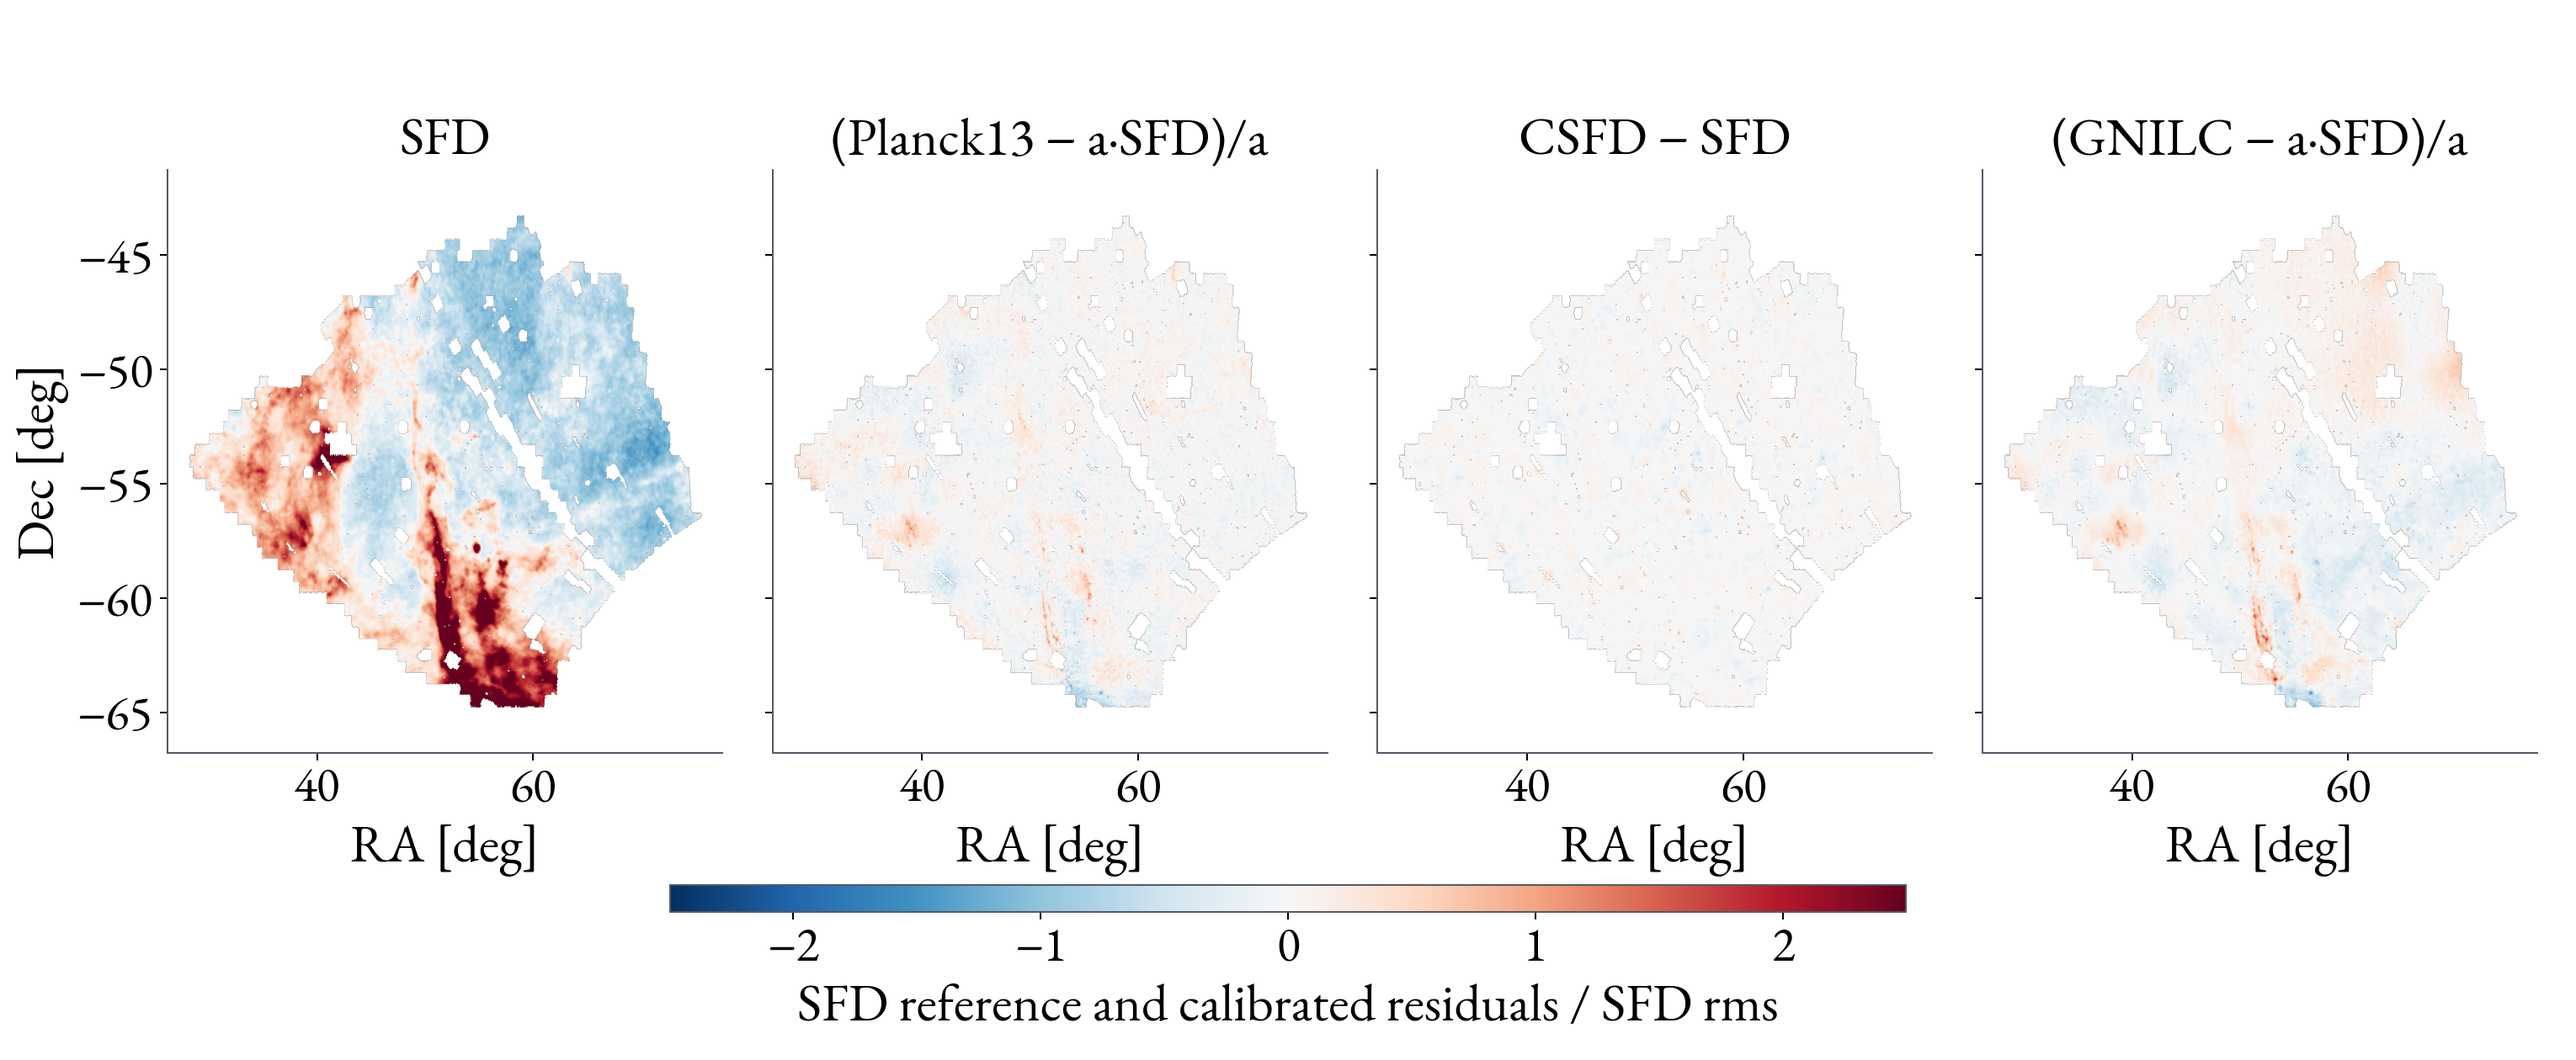
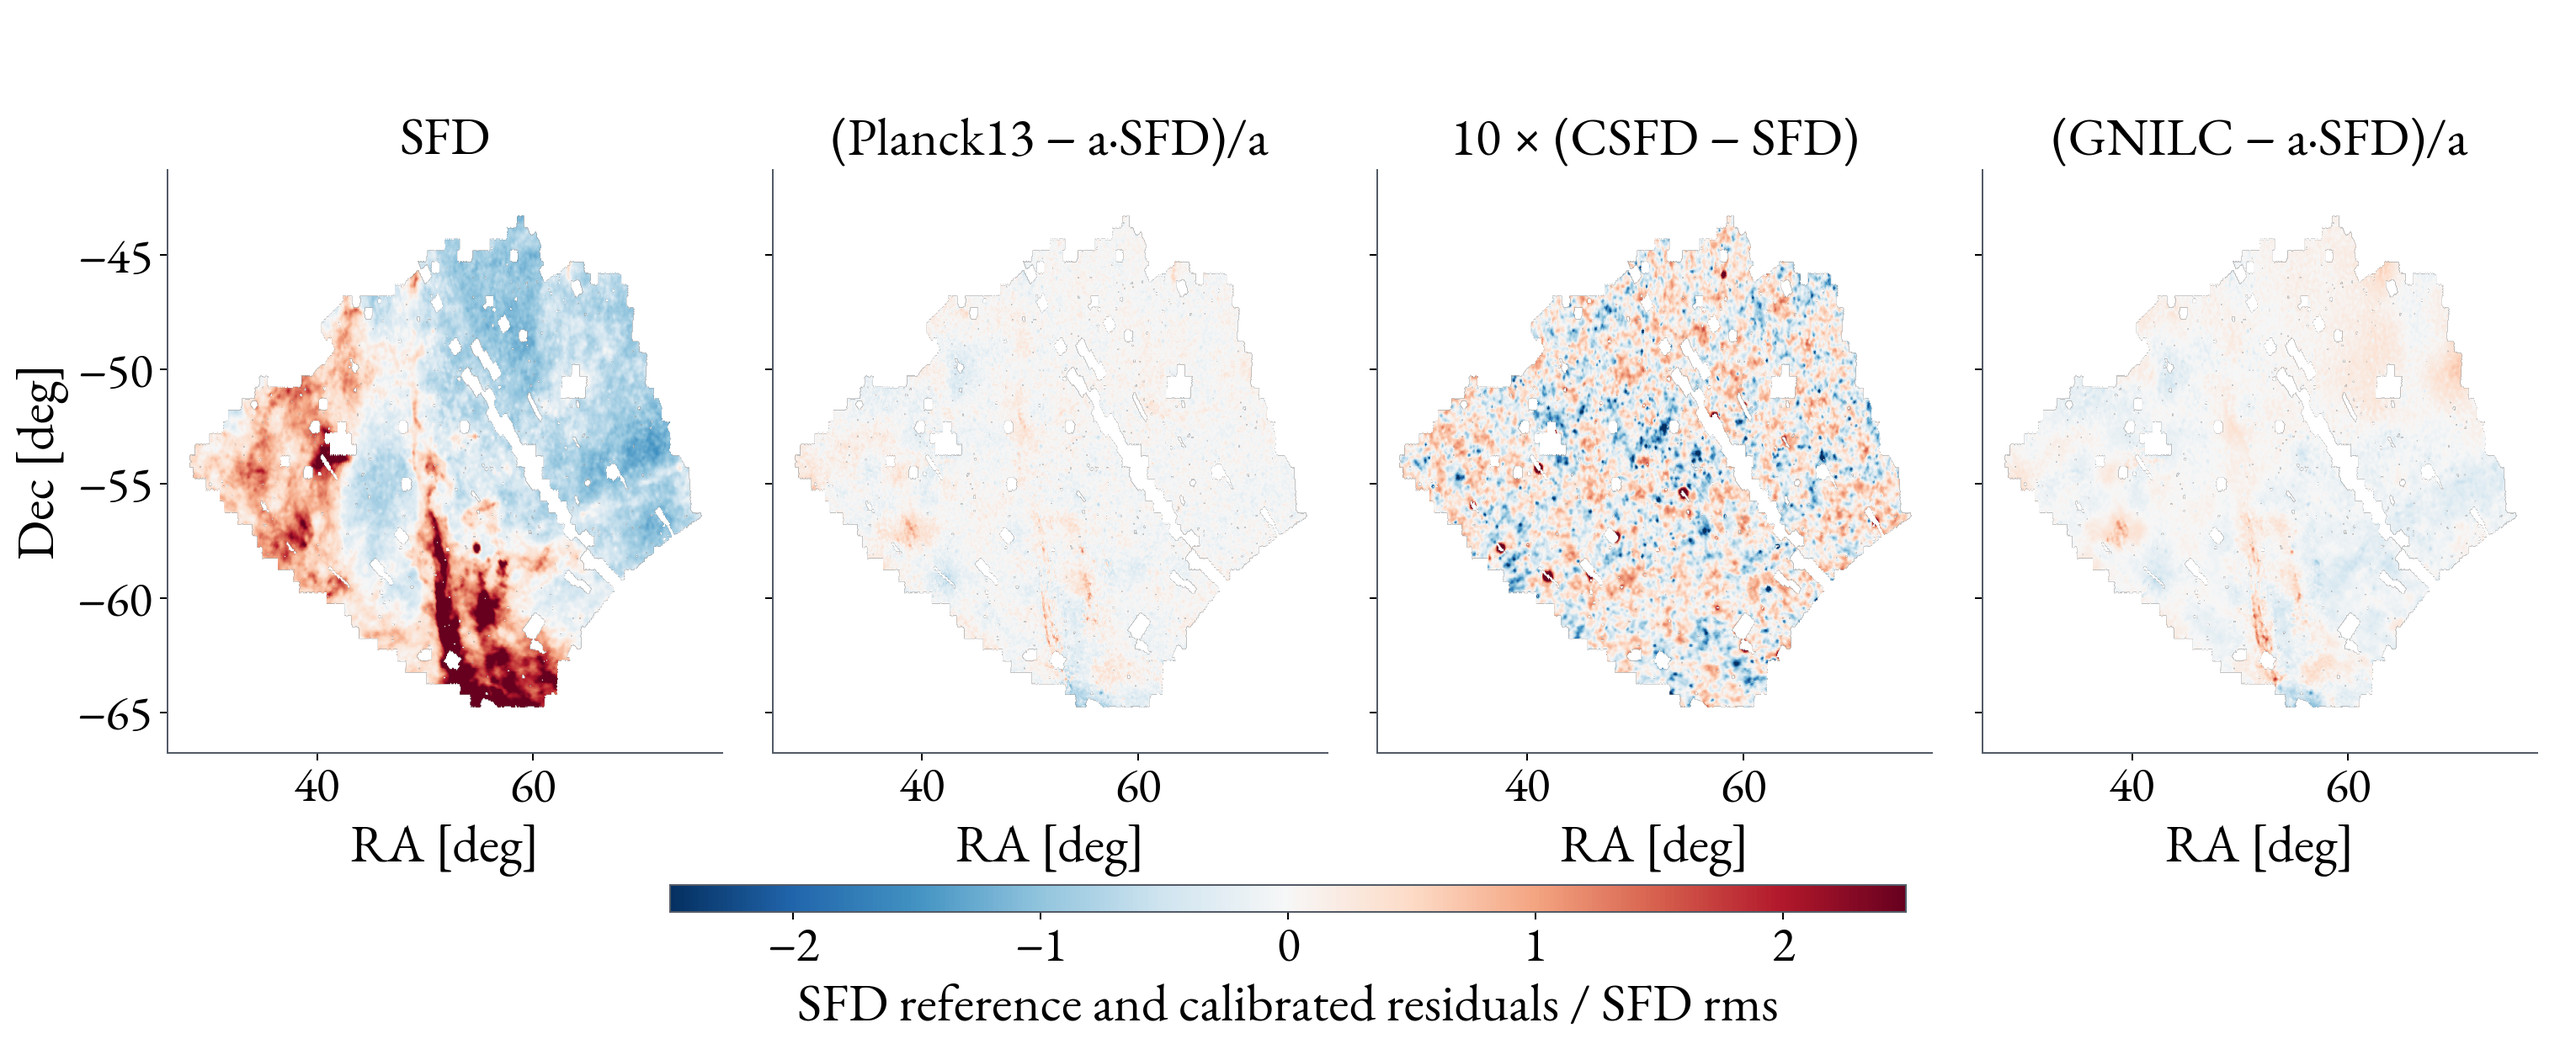
Expose CSFD dust residual structure and include every rho error bar

Changed region(s): [[0.5278, 0.2167, 0.7451, 0.681], [0.5588, 0.0929, 0.7141, 0.1548]]

diff --git a/2610_GC8_Systematics/slides/dust-maps.html b/2610_GC8_Systematics/slides/dust-maps.html
@@ -1,9 +1,9 @@
 <section data-layout="figure">
 <h2>Dust maps share structure, but differ in LSS</h2>
-<figure><img src="images/gc8r4_dust_residuals.png" alt="SFD reference plus calibrated Planck13, CSFD and GNILC residuals, all in SFD rms units on a common symmetric scale."><img class="fragment" src="images/gc8r4_dust_rho.png" alt="Cycle-2 thirteen-tracer GLS mean rho for VMPZ, SFD, CSFD and GNILC, with full-block Gaussian errors."><span class="source">Cycle 2 · exploratory · Gaussian · arXiv:2601.14484, 2411.12020, 1808.03294</span></figure>
+<figure><img src="images/gc8r4_dust_residuals.png" alt="SFD reference plus calibrated Planck13, CSFD and GNILC residuals, in SFD rms units; the CSFD residual alone is displayed at ten times the gain."><img class="fragment" src="images/gc8r4_dust_rho.png" alt="Cycle-2 thirteen-tracer GLS mean rho for VMPZ, SFD, CSFD and GNILC, with full-block Gaussian errors."><span class="source">Cycle 2 · exploratory · Gaussian · arXiv:2601.14484, 2411.12020, 1808.03294</span></figure>
 <aside class="notes"><p>This comparison exists only for Cycle 2; no Cycle-1 dust-map comparison is implied.
 The means and errors use full-range GLS compression, visibility-corrected density, LensMC E and SPT kappa, with the same fixed fiducial-signal normalization as slide 3.
-The first frame shows an SFD reference plus residuals on the same equatorial grid and union GC/WL support. Maps are mean-subtracted. For Planck13 and GNILC, a is an unweighted least-squares scale with intercept on the support; (T − a SFD)/a converts the residual back to SFD units. CSFD − SFD uses a=1 because it is already in the same reddening units. All four panels use the same symmetric ±2.5 SFD-rms stretch.
+The first frame shows an SFD reference plus residuals on the same equatorial grid and union GC/WL support. Maps are mean-subtracted. For Planck13 and GNILC, a is an unweighted least-squares scale with intercept on the support; (T − a SFD)/a converts the residual back to SFD units. CSFD − SFD uses a=1 because it is already in the same reddening units. SFD, Planck13 and GNILC use the same symmetric ±2.5 SFD-rms stretch. The CSFD−SFD panel alone uses ten times the display gain (equivalent to ±0.25 SFD rms), stated in its title; the underlying residual and Pearson calculation are not rescaled.
 The common colour scale is clipped for readability; the map panels are not beam-matched.
 Their similar Galactic structure hides the small extragalactic imprint, so the second frame is the quantitative centrepiece.</p>
 <p>The GNILC input is the delivered Planck R2.00 Dust-GNILC-F545 intensity map (MJy/sr), not the separate CIB-GNILC product.
@@ -32,5 +32,5 @@ A galaxy null is partly by construction; it is not independent certification tha
 Compare alternative dust templates individually, not as simultaneous regressors.
 Source: results/scratch/gc8/rho/rho_four_dust.json, c2/{vmpz,sfd,csfd,gnilc} rows; rho/HEADLINE.md; Chiang (2023), arXiv:2306.03926.
 The backup literature slide connects this test to DES Y6 adopting CSFD (arXiv:2601.14484), DESI using HI and excluding CIB-bearing SFD residuals from BGS/LRG weights (arXiv:2411.12020), and Chiang and Menard's IR-map LSS detections (arXiv:1808.03294).
-Chiang and Menard found that GNILC reduced, rather than eliminated, the extragalactic imprint.</p><p>CSFD − SFD is the negative of the removed LSS correction. The quick unweighted pixel Pearson correlation with the six delivered density maps is −0.154 to −0.124, the expected negative sign. This is not harmonic rho and has no significance estimate; shot noise, beam and selection affect it. The residual is only 0.060 SFD rms, so it looks faint at the shared stretch; its visual faintness is not a null. Sources: rho/residual_map_stats.json and compute/round4_figures.py.</p></aside>
+Chiang and Menard found that GNILC reduced, rather than eliminated, the extragalactic imprint.</p><p>CSFD − SFD is the negative of the removed LSS correction. The quick unweighted pixel Pearson correlation with the six delivered density maps is −0.154 to −0.124, the expected negative sign. This is not harmonic rho and has no significance estimate; shot noise, beam and selection affect it. The residual is only 0.060 SFD rms, so its display gain is increased tenfold to expose structure; the gain is not an amplitude comparison with the other panels. Sources: rho/residual_map_stats.json and compute/round4_figures.py.</p></aside>
 </section>

diff --git a/2610_GC8_Systematics/compute/round4_figures.py b/2610_GC8_Systematics/compute/round4_figures.py
@@ -43,7 +43,12 @@ def rho():
   fig.text(.11,.85,('With' if state=='vis' else 'Without')+' density visibility correction · LensMC · SPT-3G',fontsize=25)
   save(fig,f'ladder_{state}')
 def dust_rho():
- d=st.read(R/'rho_four_dust.json');fig,ax=axes();ax.set_ylim(-.03,.225)
+ d=st.read(R/'rho_four_dust.json');fig,ax=axes()
+ plotted=[d['rows'][f'c2/{t}/{k}/'+('vis' if k[0]=='g' else 'native')] for t in ['vmpz','sfd','csfd','gnilc'] for k in st.TRACERS]
+ lo=min(v['mean_rho']-v['mean_rho_error'] for v in plotted);hi=max(v['mean_rho']+v['mean_rho_error'] for v in plotted)
+ pad=.06*(hi-lo);ax.set_ylim(lo-pad,hi+pad)
+ assert all(ax.get_ylim()[0] < v['mean_rho']-v['mean_rho_error'] and v['mean_rho']+v['mean_rho_error'] < ax.get_ylim()[1] for v in plotted)
+ print('Dust rho range including 1-sigma:',lo,hi,'; axis:',ax.get_ylim())
  for j,(t,color,marker,label) in enumerate([('vmpz','#234979','o','VMPZ / Planck13'),('sfd','#a8542b','s','SFD'),('csfd','#23776d','^','CSFD'),('gnilc','#9751a5','D','GNILC 545 GHz')]):
   for start,end in [(0,6),(6,12),(12,13)]:
    vals=[d['rows'][f'c2/{t}/{k}/'+('vis' if k[0]=='g' else 'native')] for k in st.TRACERS[start:end]]
@@ -57,15 +62,16 @@ def maps():
  sfd=np.load(st.SCRATCH/'sfd.npy',mmap_mode='r');ref=np.asarray(sfd[pix]);ref=ref-ref.mean();rms=ref.std()
  fig,axes=plt.subplots(1,4,figsize=(17,7),sharex=True,sharey=True);fig.subplots_adjust(left=.065,right=.985,bottom=.29,top=.84,wspace=.09);stats={}
  residual=None
- for ax,t,label in zip(axes,['sfd','vmpz','csfd','gnilc'],['SFD','(Planck13 − a·SFD)/a','CSFD − SFD','(GNILC − a·SFD)/a']):
+ for ax,t,label in zip(axes,['sfd','vmpz','csfd','gnilc'],['SFD','(Planck13 − a·SFD)/a','10 × (CSFD − SFD)','(GNILC − a·SFD)/a']):
   p=R/'gnilc.npy' if t=='gnilc' else st.SCRATCH/f'{t}.npy';m=np.load(p,mmap_mode='r');v=np.asarray(m[pix]);v=v-v.mean()
   scale=1. if t in ['sfd','csfd'] else float(ref@v/(ref@ref));res=v if t=='sfd' else v-scale*ref
   img=(m[ip]-np.asarray(m[pix]).mean())/rms
   if t!='sfd':img-=scale*(sfd[ip]-np.asarray(sfd[pix]).mean())/rms
   if t not in ['sfd','csfd']:img/=scale;res/=scale
   img[~support[ip]]=np.nan
-  im=ax.imshow(img,origin='lower',extent=bounds,cmap='RdBu_r',vmin=-2.5,vmax=2.5,aspect='auto');ax.set_title(label,fontsize=25);ax.set_xlabel('RA [deg]',fontsize=25);ax.tick_params(labelsize=23)
-  stats[t]=dict(scale=scale,residual_over_sfd_rms=float(res.std()/rms),pearson_with_sfd=float(np.corrcoef(v,ref)[0,1]))
+  display_gain=10. if t=='csfd' else 1.
+  im=ax.imshow(img*display_gain,origin='lower',extent=bounds,cmap='RdBu_r',vmin=-2.5,vmax=2.5,aspect='auto');ax.set_title(label,fontsize=25);ax.set_xlabel('RA [deg]',fontsize=25);ax.tick_params(labelsize=23)
+  stats[t]=dict(scale=scale,display_gain=display_gain,residual_over_sfd_rms=float(res.std()/rms),pearson_with_sfd=float(np.corrcoef(v,ref)[0,1]))
   if t=='csfd':residual=res
  axes[0].set_ylabel('Dec [deg]',fontsize=25);cax=fig.add_axes([.26,.14,.48,.025]);cb=fig.colorbar(im,cax=cax,orientation='horizontal');cb.set_label('SFD reference and calibrated residuals / SFD rms',fontsize=25);cb.ax.tick_params(labelsize=23);save(fig,'dust_residuals')
  # Quick pixel check (not harmonic rho, not a null significance).
@@ -78,4 +84,5 @@ def maps():
 if __name__=='__main__':
  st.setup_font()
  if 'maps' in sys.argv:maps()
+ elif 'dust' in sys.argv:dust_rho()
  else:st.heatmaps();rho();dust_rho()
